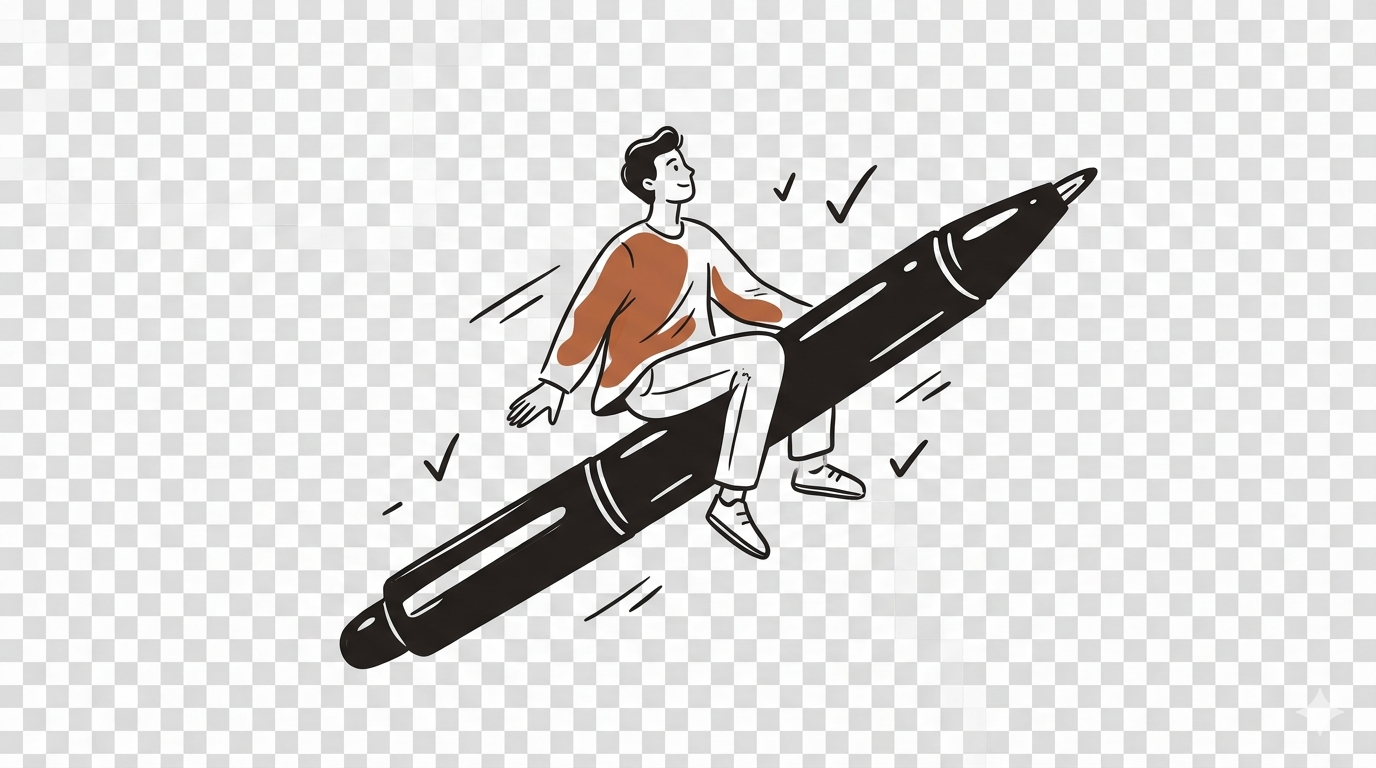
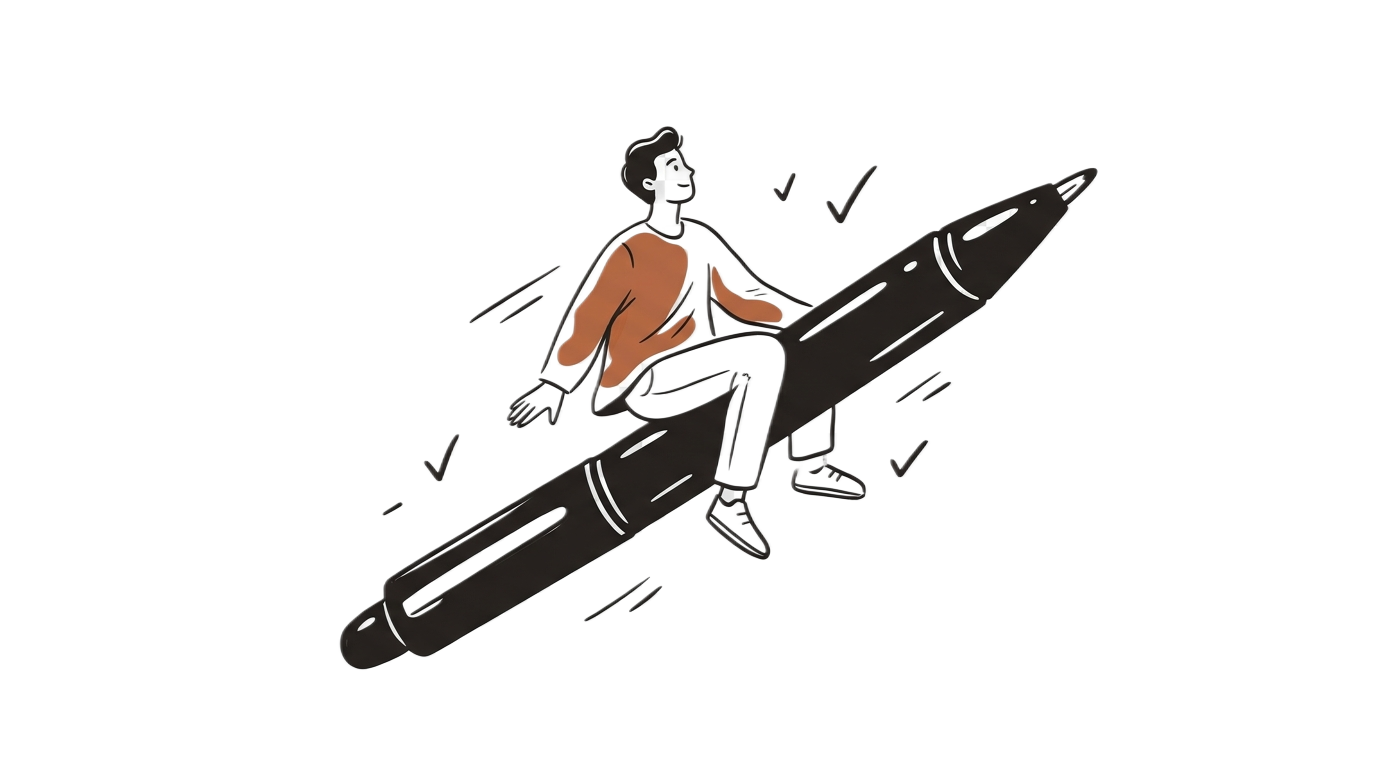
fix: landing page — replace illustration with transparent background, compress spacing for viewport fit

diff --git a/frontend/app/welcome/page.tsx b/frontend/app/welcome/page.tsx
@@ -115,39 +115,32 @@ export default function WelcomePage() {
 
         {/* ── Hero ──────────────────────────────────────────────────────────── */}
         <section
-          className="px-4 flex flex-col items-center justify-center text-center"
+          className="px-4 py-4 flex flex-col items-center justify-center text-center"
           style={{
             minHeight: "100vh",
-            paddingTop: 96,
-            paddingBottom: 48,
             background: "linear-gradient(to bottom, #faf9f8 85%, #f3f4f3 100%)",
           }}
         >
           <div className="w-full max-w-[560px] mx-auto flex flex-col items-center">
 
-            {/* Illustration — framed container blends transparent PNG with page background */}
-            <div
-              className="mb-8 rounded-lg p-6 flex items-center justify-center"
-              style={{ background: "#faf9f8" }}
-            >
-              <img
-                src="/images/landing-hero.png"
-                alt="Person riding pen upward"
-                className="w-full object-contain"
-                style={{ maxWidth: "400px", height: "auto" }}
-              />
-            </div>
+            {/* Illustration */}
+            <img
+              src="/images/landing-hero.png"
+              alt="Person riding pen upward"
+              className="w-full object-contain mb-4"
+              style={{ maxWidth: "400px", height: "auto" }}
+            />
 
             {/* Tagline */}
             <h1
-              className="font-headline font-normal leading-[1.1] tracking-tight text-on-surface text-5xl mb-3"
+              className="font-headline font-normal leading-[1.1] tracking-tight text-on-surface text-5xl mb-2"
             >
               Write like yourself. At scale.
             </h1>
 
             {/* Subtitle */}
             <p
-              className="font-sans text-lg text-secondary/70 text-center mx-auto mb-10"
+              className="font-sans text-lg text-secondary/70 text-center mx-auto mb-6"
               style={{ maxWidth: "600px" }}
             >
               Your thoughts, written in your voice.
@@ -156,7 +149,7 @@ export default function WelcomePage() {
             {/* CTA */}
             <Link
               href={heroPrimaryCta.href}
-              className="font-sans font-medium text-white text-base px-8 py-3 rounded-md transition-opacity hover:opacity-90 mb-12"
+              className="font-sans font-medium text-white text-base px-8 py-3 rounded-md transition-opacity hover:opacity-90 mb-6"
               style={{
                 background: "linear-gradient(135deg, #58614f 0%, #4c5543 100%)",
               }}
